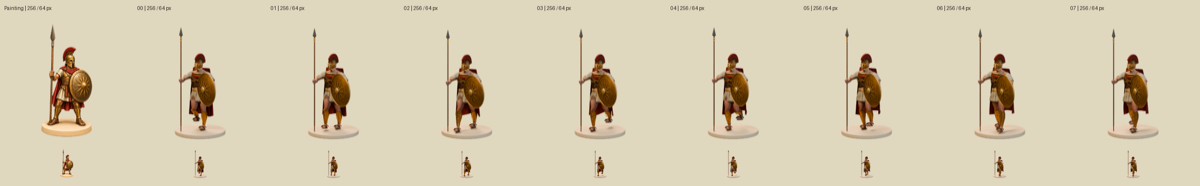
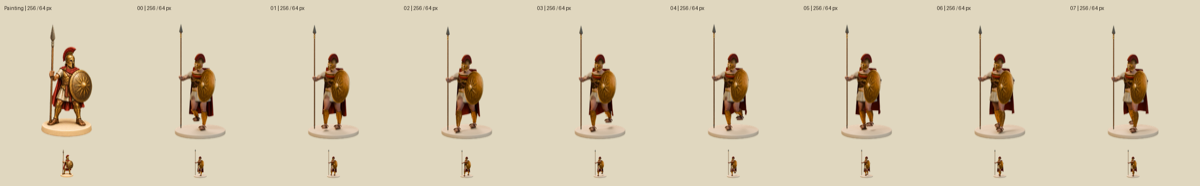
3D spearman interim review images

diff --git a/tools/art/anim3d/review/log.md b/tools/art/anim3d/review/log.md
@@ -10,3 +10,6 @@
 - System asset pack installed successfully (280,737,770 bytes, SHA256 b542127a8e25547c7c29c19f2d1d2adb9a664c80396ecd694095dbc8028a0107); using CC0 high-poly eyes and young male skin on MPFB UVs.
 - Revised c emitted: explicit forged muscle armour, stronger MPFB arm/shoulder targets, wider red cloak, turned shield, iron fittings, cream stone; still below painting's authored-detail richness. Baked 4 x AO and 4 x curvature maps at 512 px.
 - First e-death emitted then rejected shield/base intersection; added an attached shield control that settles face-up onto the base and freezes the last two samples. Re-rendering all five clips with revised model and 384 px / 24-sample CPU previews.
+- Geometry audit found 21 issues: spear butt low during move/death, sandal soles below base during attack/death, attack butt outside camera. Correcting world foot orientation, lifted march guard, earlier fall spear rotation and attack grip slide; no claim of passing geometry yet.
+- Wrapper fixes: avoided editing live Bash files in place after an iteration hit a truncated-command error; fixed macOS Bash 3 empty-array/set-u handling. Eevee host path now explicitly selects --gpu-backend metal.
+- Verified installed Pillow's actual licence file: version 13.0.0 uses MIT-CMU (corrected earlier HPND label). MPFB high-poly eyes and skin files explicitly carry CC0 headers.
